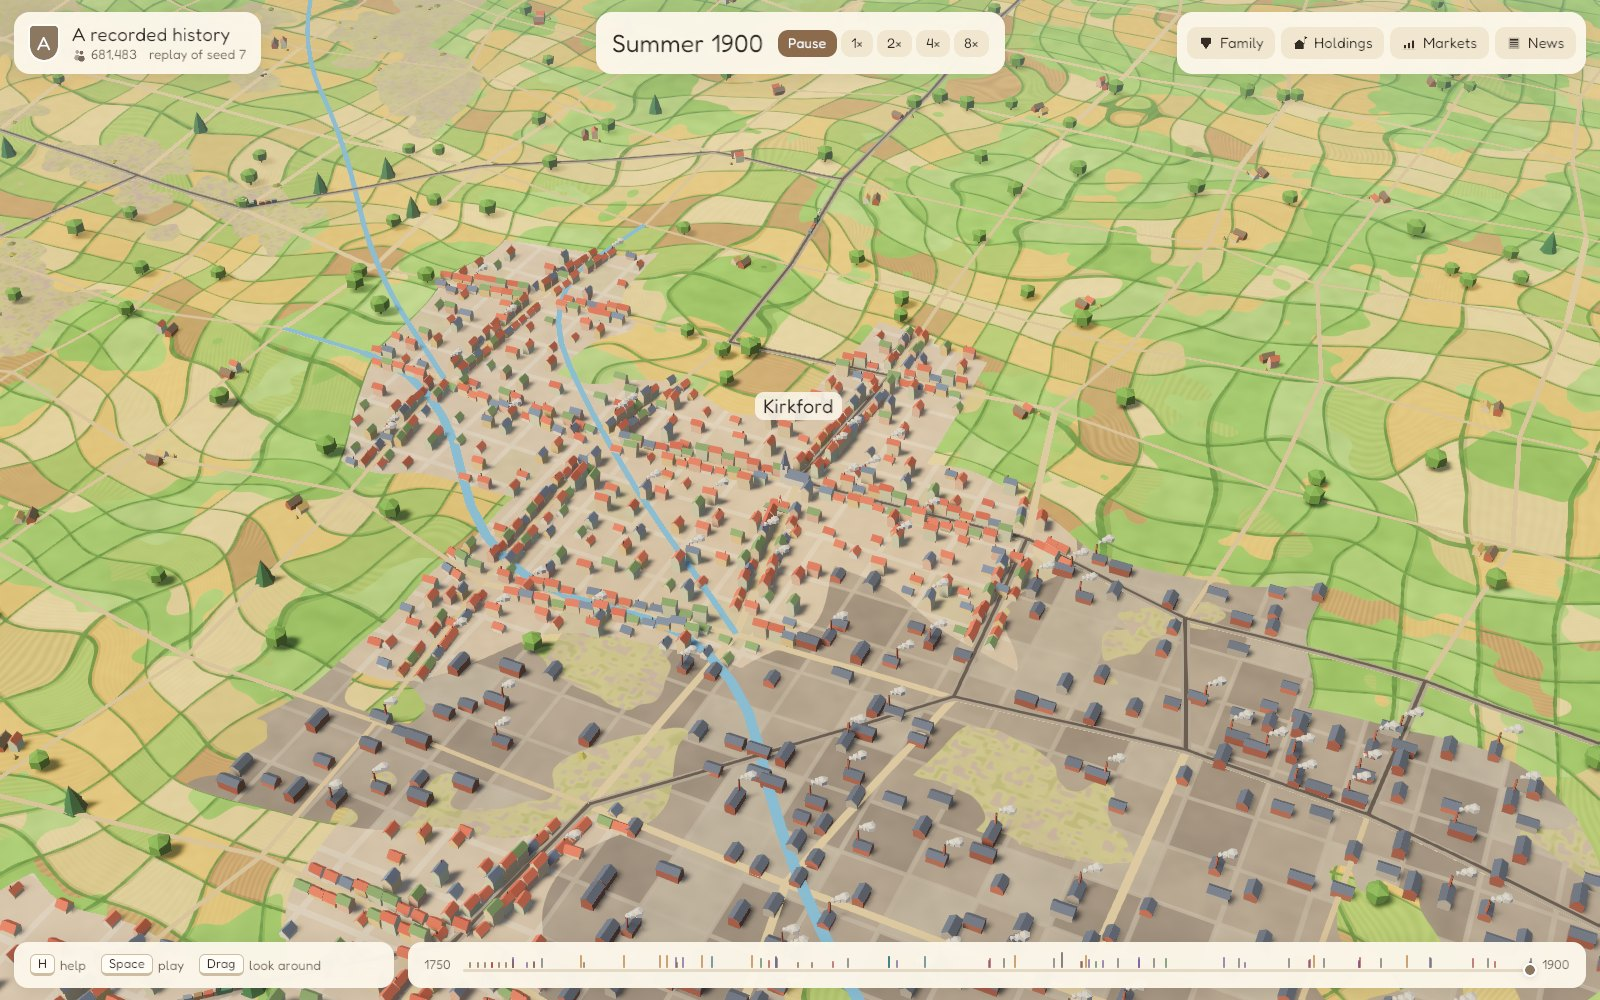
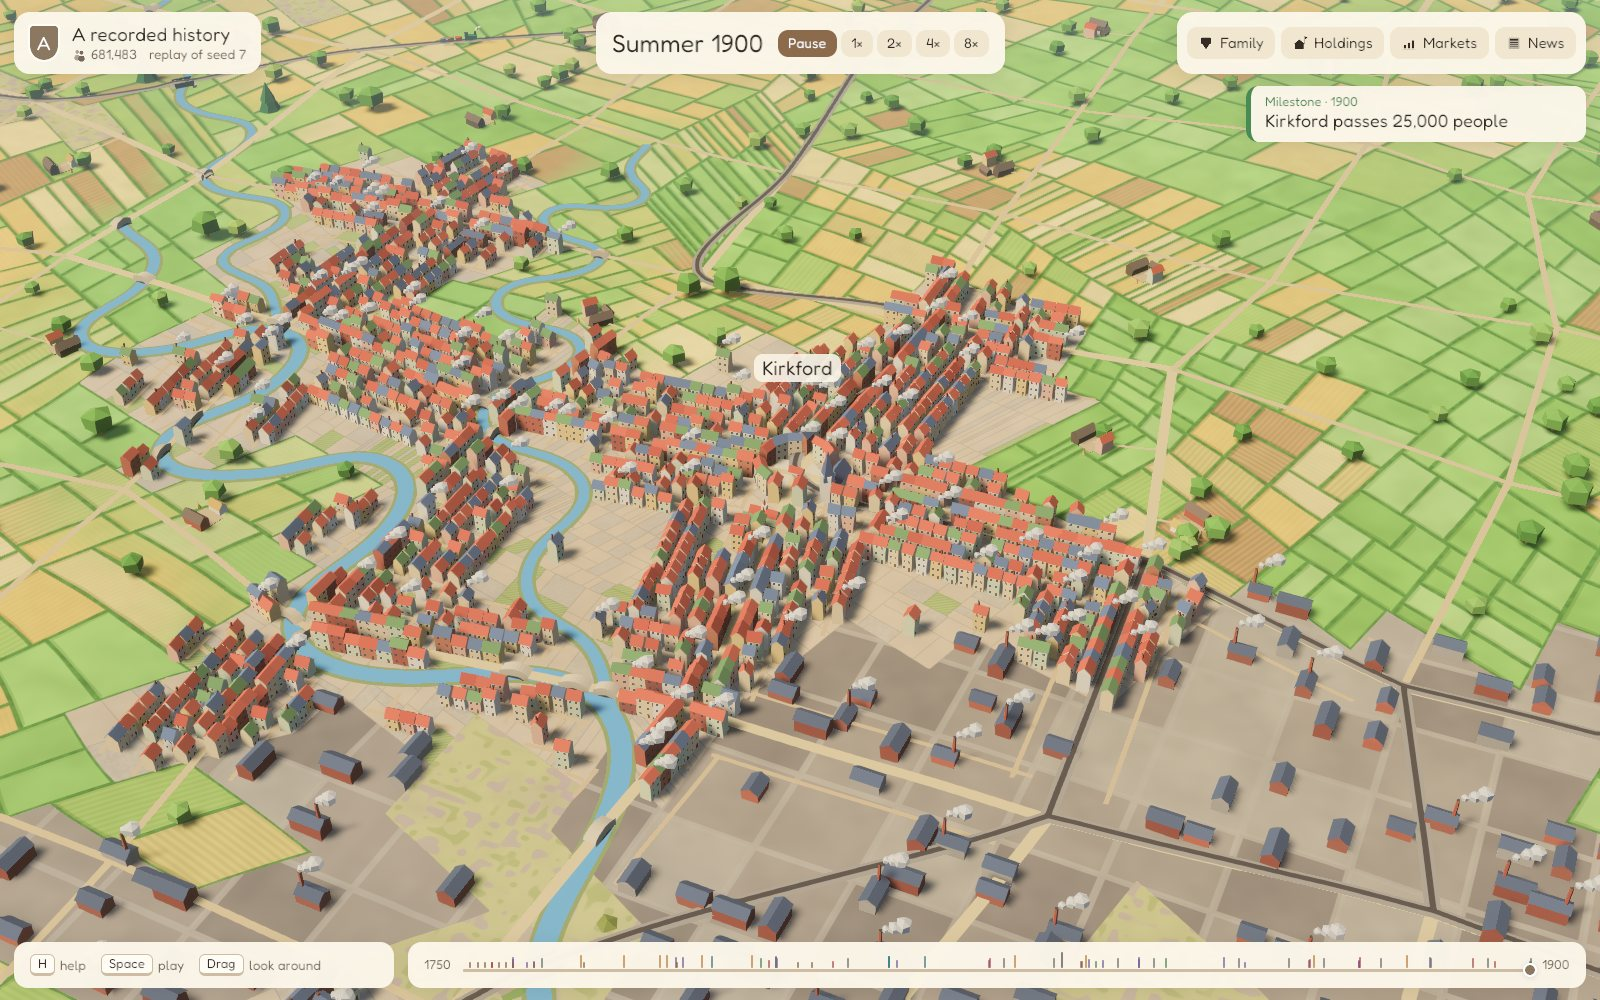
Docs: families v2, the family interface, the map pass and the towns
The devlog entry for the evening's work, the plan brought up to date
(what is open after families v2, research and patents next, visible
change and background building from ART.md, a kept urban layer), and
new screenshots.

Claude-Session: https://claude.ai/code/session_01StxUJwAcwgQE8D7Fbauauo

diff --git a/docs/DEVLOG.md b/docs/DEVLOG.md
@@ -2,6 +2,22 @@
 
 Working notes, newest first. The plan lives in PLAN.md; this is what happened and what is in flight.
 
+## 2026-11-09 (evening): families v2, the family interface, towns and a map pass
+
+Stella's direction after the first playable game: where the simulation plays well (placing buildings), keep the player out; give the player artificial, higher-level limits instead (one trade to start, the family's people as the limit on where it can act, research later), a Crusader Kings style family with a head, and no sliders: every choice discrete, without jank. The player plays the family as a whole, the head's location gives power there, there is no information fog, and marriages and alliances are out for now. Land buying is undecided.
+
+**Families v2 in the core** (helper, branch `families-v2`, merged; `crates/isostate-core/FAMILIES.md` has the rules and the balance tables). Members have posts: child, learning, manager of a trade, head, or none. At fourteen a child is apprenticed in a trade at a town (the family learns the trade when the apprenticeship ends) or sent to university (much abler, and educated). A family knows the trades its people have learned; it starts with one. A branch is a trade in a town with someone of the family there to run it, a manager living there or the head at the seat; it grows (a works a year, or land for estates), holds or winds down, and its works get a bonus that rises with the runner's skill. Works with no branch over them are run by a hired manager for a fifth of their profit. The seat is the only place the player builds works or buys land directly; moving it, and posting people, takes effect at the year end. Members age, have children and die; when the head dies the eldest adult heads the family and the player may choose another. Every choice that waits for the player is a decision with a default, taken at the end of the next year if unanswered. AI families play by the same rules. With `n_families = 0` the core is still byte for byte the port.
+
+Balance after the helper's pass (scripted players over four seeds): a player who takes every default finishes 1st to 4th of six, within 10% of the best rival; a thoughtful player wins three seeds of four; a landlord who puts three quarters of its cash into land around the seat wins all four. The spending rule now draws on cash only (70% of last month's income plus 1% of cash a month), so families save about a quarter to a third of their income. Open points it found: land beats works; families own 57% of the works' capital by 1900 in seed 7; industrial rivals stay small; decisions come often; AI families never hold, wind down or move.
+
+**The family interface.** Decisions open as cards that stop the clock, each option saying what it would mean (the trade's prospects in that town, the year an apprentice brings a new trade home); Decide later leaves them for a badge beside Next year. The Family panel has the worth and accounts, anything waiting (decisions, members with nothing to run), the family as a tree with the dead marked, and the great families, each of which opens to show its head, trades and branches. Clicking a member lists where they would count most: works or land with nobody of the family over them first, then the towns where a known trade would earn most. Holdings lists the branches with Grow, Hold and Wind down. A town's note offers to move the seat there and to post anyone free to run a trade there. Every family's seat flies its flag on the market square, and the news can be filtered to the great families.
+
+**A map pass** (helper, branch `map-pass`, merged; the viewer README describes it in full). Relief below the scale of a cell (swells in the lowland, spurs and V-shaped valleys in the hills, crests in the mountains); rivers that meander as sine-generated curves in valleys cut to a falling water level, with floodplains, estuaries, stone bridges and causeways; ragged coasts with beaches and cliffs, and a sea with its own shader reading the depth; fields cut from a warped grid into long hedge lines and near-parallel blocks, small round the towns and large on the hills, with stone walls on high ground; open strip fields round each town until its parish is enclosed in a year of its own between 1755 and 1835, when hedges, hedgerow trees and farmsteads appear; and railways graded to a ruling gradient, on embankments, viaducts and girder bridges, in cuttings and tunnels. The painted town street grid is gone; the ground in town is yards, cobbles and gardens. The rebuild of a year's scenery is now about 0.6 to 0.8 s in a debug build on this machine, which is a visible hitch.
+
+**Towns** (`scatter/towns.rs`): laid out along the roads through them, with high streets, back lanes and cross streets that fill in with density, houses on plots fronting the streets with windows and doors, a market square with a hall or cross, a church facing it and a station road. After docs/ART.md (a planning session's notes on visible change), a plot's place along its street is fixed, back streets go up a row at a time in rows fixed per street, a row's style is settled by the year it was first built (terraces from 1815, separate houses before), and each house steps up a storey at a density of its own. The sim itself churns town ground: about a third of urban cells switch in or out of urban use each decade in seed 7, so whole districts come and go. That wants a kept, decaying urban layer shared by the shader and the slots.
+
+Screenshots: `docs/shots/decision-1750.jpg` (the first decision), `game-1780.jpg` (the family panel and a town's note), `seat-1780.jpg` (a seat's flag), `kirkford-1900.jpg`, `quenbank-1850.jpg`, `island-1860.jpg`.
+
 ## 2026-11-09 (later): a playable first game
 
 The viewer now plays a live game: `cargo run --release -p isostate-viewer` with no arguments makes island 7 with six families, the player's first, and opens over the player's home town with a card saying who you are and how to begin. Naming a `run.bin` still plays a replay.

diff --git a/PLAN.md b/PLAN.md
@@ -10,7 +10,7 @@ Three stages: a lab you can tinker with, a visual tool you can steer, then a gam
 
 ## Where we are
 
-The simulation runs in Rust (`crates/isostate-core`), checked against the Python step by step, 150 years in about 21 seconds. The Bevy viewer (`crates/isostate-viewer`) plays recorded runs and live games. A live game has six families, the player's first: you buy land and build works on the map, put family members in charge of trades, and watch the century unfold year by year against the AI families (see docs/DEVLOG.md for what exists and what the scripted players taught us). The economic weaknesses listed under stage 1 still stand, and the politics half of the game is not started.
+The simulation runs in Rust (`crates/isostate-core`), checked against the Python step by step, 150 years in about 21 seconds. The Bevy viewer (`crates/isostate-viewer`) plays recorded runs and live games. A live game has six families, the player's first. The player chooses from short lists: the family's first trade, each child's training, where grown members run its trades, what each branch does, where the seat is, and, at the seat only, which works to build and which land to buy (see `crates/isostate-core/FAMILIES.md` for the rules and docs/DEVLOG.md for what exists). The look is planned in docs/ART.md. The economic weaknesses listed under stage 1 still stand, and the politics half of the game is not started.
 
 ## Stage 1: the lab (next, dense)
 
@@ -42,7 +42,8 @@ The simulation runs in Rust (`crates/isostate-core`), checked against the Python
 
 ## Stage 2: the visual tool (sparser)
 
-- Done: replays and live play in Bevy, a terrain shader for fields, hedges and crops (crisp at any zoom, with the seasons), trains, carts and boats, houses lining streets, scaffolding on new and growing works, click-to-inspect with each works' "why here" sums, a game interface.
+- Done: replays and live play in Bevy, a terrain shader for fields, hedges and crops (crisp at any zoom, with the seasons), relief, meandering rivers, coasts and a sea, enclosure and open fields, graded railways with their engineering, towns laid out along their roads, trains, carts and boats, scaffolding on new and growing works, click-to-inspect with each works' "why here" sums, a game interface.
+- Next, from docs/ART.md: visible change (fixed steps per element on a staggered ladder, scheduled inside the year, scaffolding as a state) and building the scenery per chunk in the background. Town ground also needs a kept urban layer that decays slowly, shared by the shader and the slots: about a third of urban cells switch in or out each decade in seed 7, so districts come and go.
 - Next for the look: construction with a puff of dust, people and carts on the roads, weather, a title screen and saved games (the replay format can carry a game).
 - Interventions: pause, change a parameter or place a thing (a canal, a tariff, a land tax), resume, and compare the branch against the baseline on the same seed.
 - A diff view on the map: where two branches differ, in rent, use and population.
@@ -52,5 +53,7 @@ The simulation runs in Rust (`crates/isostate-core`), checked against the Python
 
 - The player's seat, decided: a family running a conglomerate among rival families. Companies mostly run themselves; the player chooses trades, places and people. The government is always run by one family; holding office drains the family's people and attention, so power changes hands without ending anyone's game. Historical politics (a limited franchise, rotten boroughs, reform acts, the Corn Laws) comes next, after the company half is fun on its own.
 - Balance from the scripted players (DEVLOG, 2026-11-09): honest returns in thin markets, consent or a premium for buying a rival's land, a start that puts the player mid-table, and spending as a lever.
+- Open after families v2 (FAMILIES.md): land beats works (decide on land buying: more years' purchase, a cap on direct purchases, or prices that rise as one buyer takes a town's land); families own over half the works' capital by 1900; industrial rivals stay small; AI families never hold, wind down or move their seat.
+- Next for the family game: research and patents (an educated member posted to research a trade; a patent on a method the family brings in, licensed for royalties or kept to the family for its term), and a bonus for running both ends of a supply chain in one town, so vertical integration is a choice. Then politics.
 - Keep the sim honest: the player acts through the same prices and bids as everyone else, never by editing outcomes.
 - Make tangibility the design brief: milestones, inventions with names and places, booms and slumps called live and dated later, and a map that visibly answers "why is that there".

diff --git a/README.md b/README.md
@@ -38,7 +38,7 @@ cargo run -p isostate-viewer --release -- runs/landlords/run.bin        # watch 
 
 A Bevy diorama: fields, woods, towns and works grow and change as the years go by. In a game the simulation runs live and you play a family among six: choose its trade, train its children (an apprenticeship teaches the family a new trade), post its grown members to run your trades in other towns, build works and buy land yourself around your seat, and see where you stand against the other great families by 1900. Every choice is from a short list; there are no sliders. See `crates/isostate-viewer/README.md` for controls and how the picture is made, and `crates/isostate-core/FAMILIES.md` for how families work.
 
-![A game in 1753: the Fairfax family's land is fenced in red, its forge flies a pennant, and the inspector lists what could be built on the square clicked](docs/shots/game-1753.jpg)
+![A game in 1780: the Fairfax family panel with a decision waiting and two members with nothing to run, and the note on Melbourne, the family's seat, listing its branches there](docs/shots/game-1780.jpg)
 
 ### The simulation in Rust
 
